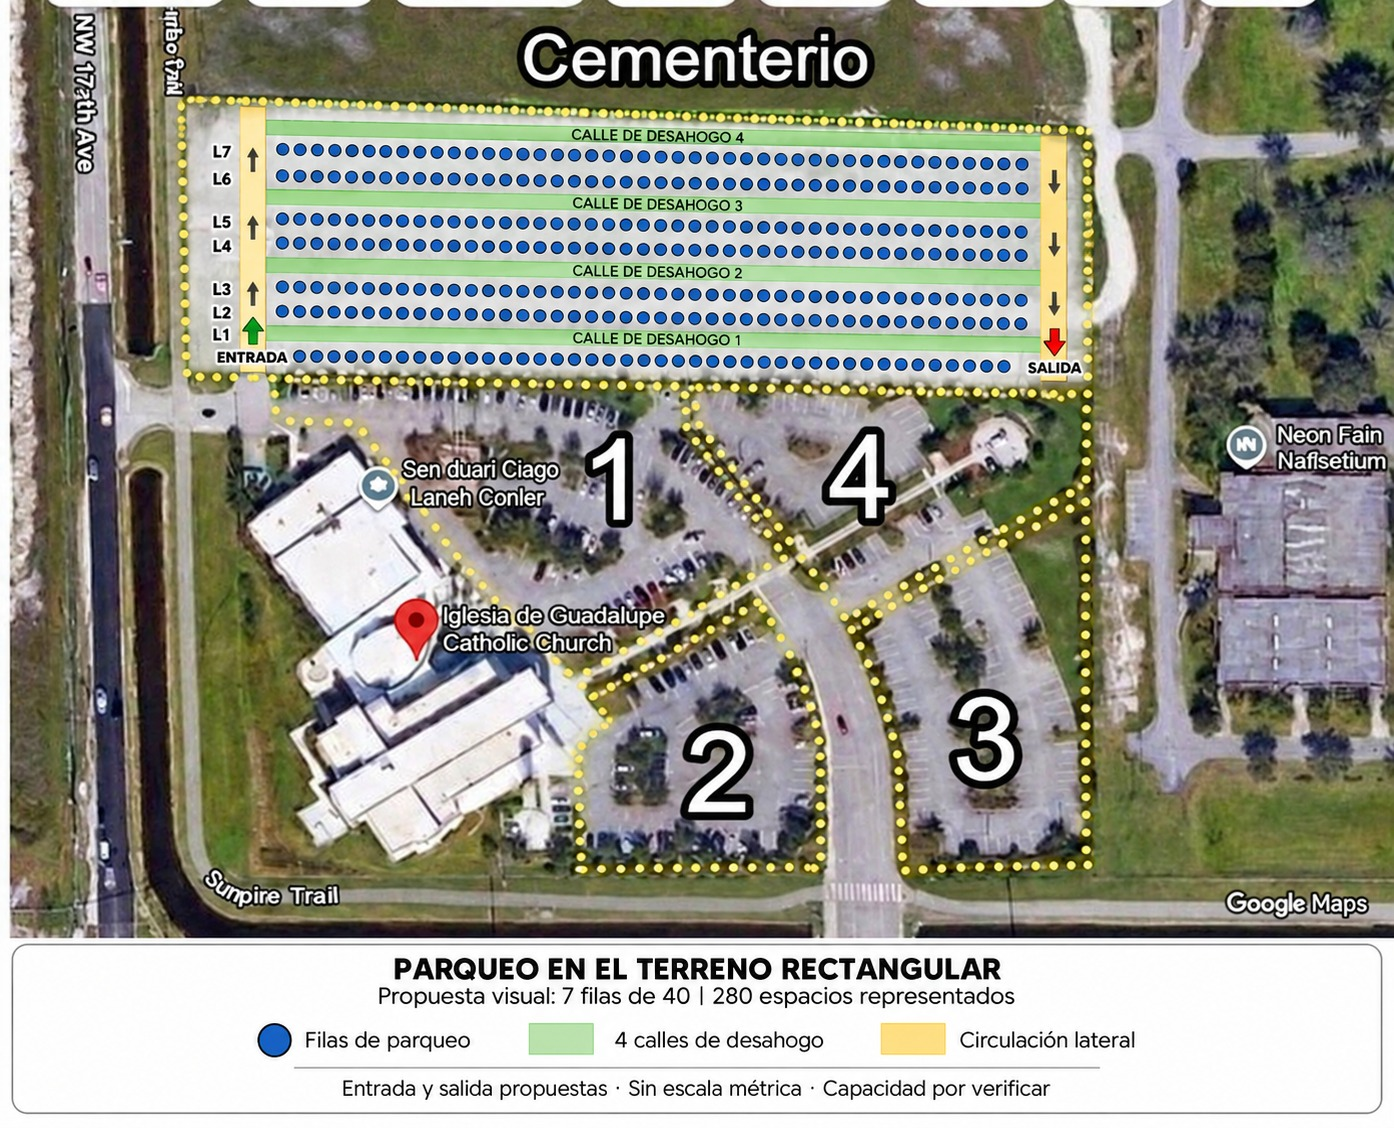
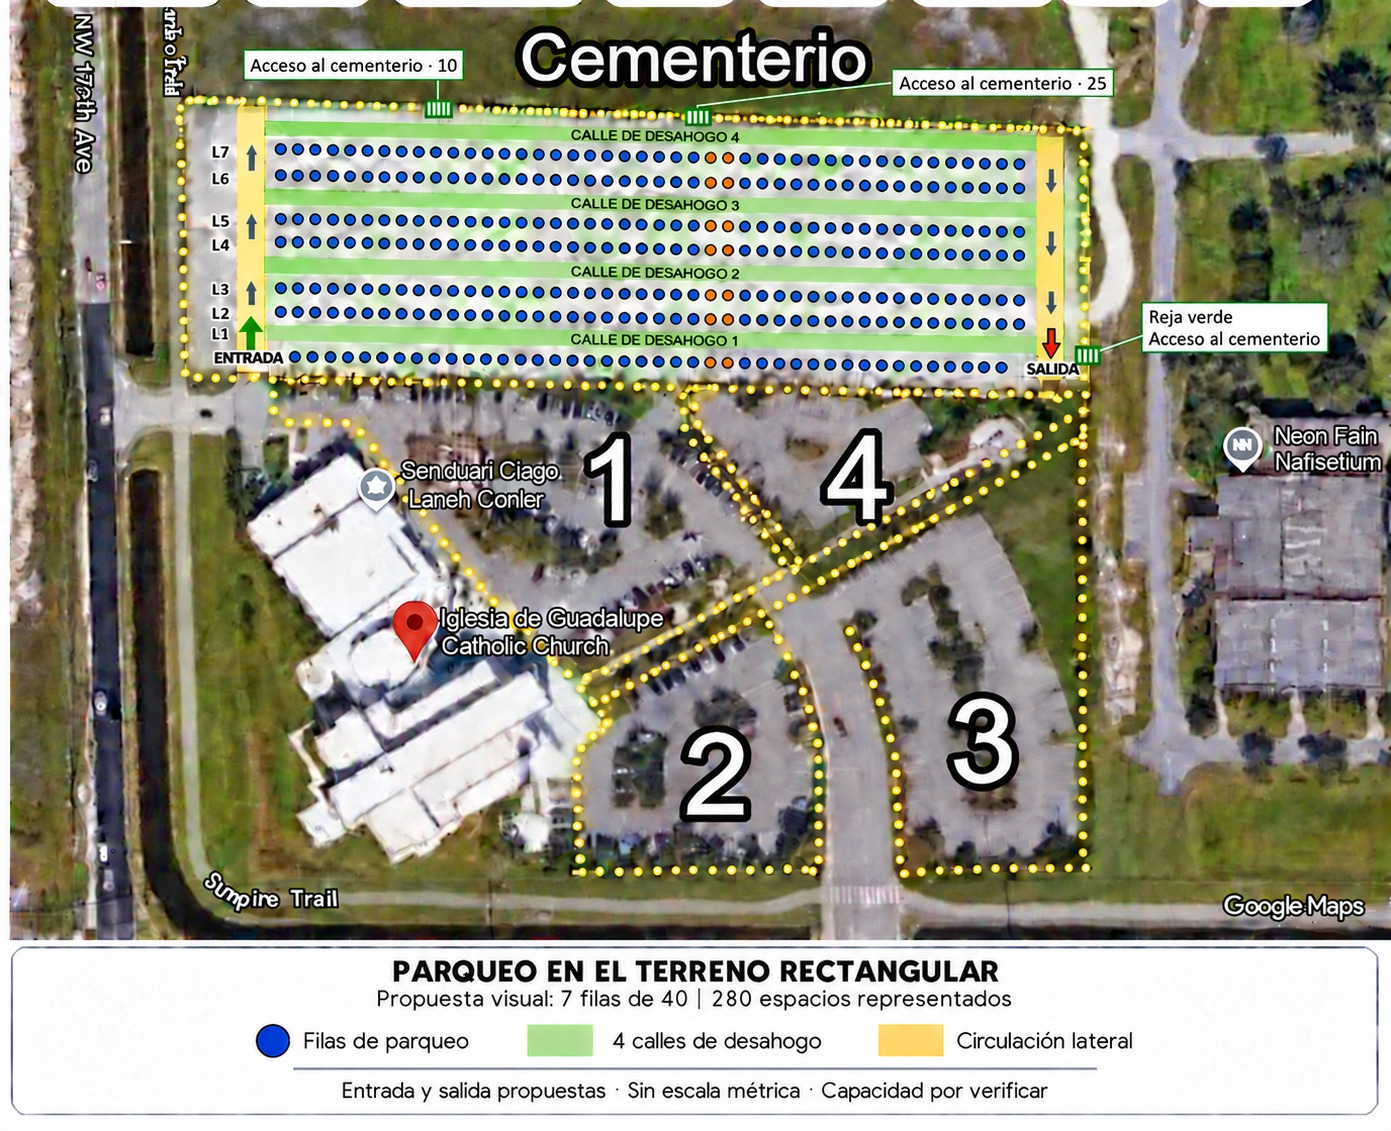
Fix first mass time to 10:00 AM, arrival time text, logistics wording and parking map

diff --git a/templates/index.html b/templates/index.html
@@ -4,7 +4,7 @@
 
 <p class="intro">Elige tu horario de misa, marca en el calendario los domingos en que puedes servir y registra tus datos.
 Cada misa tiene un mínimo de {{ CUPO }} servidores. Puedes inscribirte hasta con 3 meses de anticipación.
-<strong>IMPORTANTE: debes llegar con 30 minutos de anticipación al turno seleccionado, es decir 10:00 AM, 1:00 PM y 6:30 PM.</strong></p>
+<strong>IMPORTANTE: debes llegar con 30 minutos de anticipación al turno seleccionado, es decir 9:30 AM, 1:00 PM y 6:30 PM.</strong></p>
 
 <div class="galeria">
     <img src="{{ url_for('static', filename='img/servidores-noche.jpg') }}" class="foto-ancha" width="2000" height="1125"

diff --git a/templates/logistica.html b/templates/logistica.html
@@ -11,7 +11,7 @@
         <li>Primer voluntario o servidor: poner conos necesarios.</li>
         <li>Primer servidor en el lote 2 (handicap).</li>
         <li>Segundo servidor: entrada 117.</li>
-        <li>Tercer servidor: lote.</li>
+        <li>Tercer servidor: terreno.</li>
         <li>Una vez se llene el lote 3, llenar el lote 4 y cerrarlo. Ese voluntario debe ir a ayudar al terreno.</li>
         <li>De allí en adelante depende de la dinámica y número de servidores de cada turno.</li>
         <li>En caso de corrección fraterna a un hermano y/o feligrés, o en caso de alguna queja, por favor que estén 2 servidores presentes en lo posible.</li>

diff --git a/db.py b/db.py
@@ -10,7 +10,7 @@ MESES_ADELANTE = 3
 
 # Misas dominicales fijas. Las misas especiales usan la clave "E<id>".
 MISAS = {
-    "1030": "10:30 AM",
+    "1030": "10:00 AM",  # la clave "1030" se conserva para no tocar los registros ya guardados
     "1330": "1:30 PM",
     "1900": "7:00 PM",
 }

diff --git a/README.md b/README.md
@@ -1,6 +1,6 @@
 # Turnos de Parqueo - La Guadalupe Doral
 
-Sitio web publico para que los servidores se inscriban a los turnos de parqueo de las misas dominicales (10:30 AM, 1:30 PM y 7:00 PM). Maximo 8 servidores por misa y calendario con los domingos de los proximos 3 meses.
+Sitio web publico para que los servidores se inscriban a los turnos de parqueo de las misas dominicales (10:00 AM, 1:30 PM y 7:00 PM). Maximo 8 servidores por misa y calendario con los domingos de los proximos 3 meses.
 
 - **Publico** (cualquiera con el enlace): registro con nombre, apellido, celular y horario de misa; calendario para marcar los domingos; lista de turnos por domingo (sin celulares).
 - **Administrador** (`/admin`, protegido con contraseña): ver, añadir, modificar y borrar registros, y exportar a Excel.
